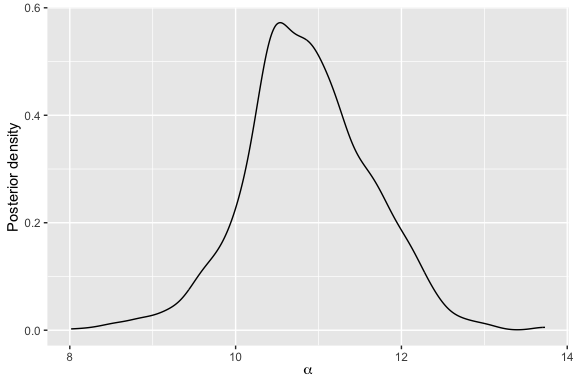
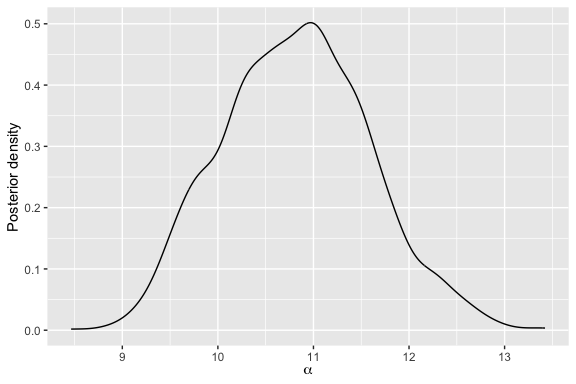
updated readme

diff --git a/README.md b/README.md
@@ -7,11 +7,10 @@
 [![R-CMD-check](https://github.com/ocbe-uio/BayesMallows/workflows/R-CMD-check/badge.svg)](https://github.com/ocbe-uio/BayesMallows/actions)
 [![Codecov test
 coverage](https://codecov.io/gh/ocbe-uio/BayesMallows/branch/master/graph/badge.svg)](https://app.codecov.io/gh/ocbe-uio/BayesMallows?branch=master)
-[![CodeFactor](https://www.codefactor.io/repository/github/ocbe-uio/bayesmallows/badge/develop)](https://www.codefactor.io/repository/github/ocbe-uio/bayesmallows/overview/develop)
+[![CodeFactor](https://www.codefactor.io/repository/github/ocbe-uio/bayesmallows/badge/master)](https://www.codefactor.io/repository/github/ocbe-uio/bayesmallows/overview/master)
 
 This package provides a general framework for analyzing rank and
-preference data based on the Bayesian Mallows model first described in
-Vitelli et al. ([2018](#ref-vitelli2018)).
+preference data based on the Bayesian Mallows model.
 
 ## Installation
 
@@ -34,13 +33,19 @@ To get started, load the package with
 
 ``` r
 library(BayesMallows)
+set.seed(123)
 ```
 
 The package comes with several example datasets. The simplest one
 contains 12 persons’ assessments of the weights of 20 potatoes, either
 by visual inspection (`potato_visual`) or by lifting the potatoes and
-comparing their relative weights by hand (`potato_weighing`). To fit a
-Bayesian Mallows model on the `potato_visual` dataset, we do
+comparing their relative weights by hand (`potato_weighing`).
+
+### Metropolis-Hastings Algorithm
+
+To fit a Bayesian Mallows model on the `potato_visual` dataset using the
+Metropolis-Hastings algorithm first described in Vitelli et al.
+([2018](#ref-vitelli2018)), we do
 
 ``` r
 potato_data <- setup_rank_data(potato_visual)
@@ -61,7 +66,8 @@ Setting the burnin to 500, we obtain a plot of the posterior
 distribution of the scale parameter with:
 
 ``` r
-plot(fit, burnin = 500)
+fit$burnin <- 500
+plot(fit)
 ```
 
 ![](man/figures/README-unnamed-chunk-6-1.png)<!-- -->
@@ -71,6 +77,34 @@ paper](https://journal.r-project.org/archive/2020/RJ-2020-026/index.html),
 and the function documentation. The use of parallel chains are described
 in [this
 vignette](https://ocbe-uio.github.io/BayesMallows/articles/parallel_chains.html).
+
+### Sequential Monte Carlo Algorithm
+
+The package also supports updating a Bayesian Mallows model using
+sequential Monte Carlo, with the algorithm described in Stein
+([2023](#ref-steinSequentialInferenceMallows2023)). For example, in
+order to update the model fitted above with the potato ranks based on
+comparing their relative weights by hand, we do
+
+``` r
+new_data <- setup_rank_data(rankings = potato_weighing)
+updated_fit <- update_mallows(model = fit, new_data = new_data)
+```
+
+We can go on to plot the posterior distribution of the scale parameter
+for this updated model.
+
+``` r
+plot(updated_fit)
+```
+
+![](man/figures/README-unnamed-chunk-8-1.png)<!-- -->
+
+Sequential Monte Carlo can typically be useful when new data arrives in
+batches, as it does not require the Metropolis-Hastings algorithm to be
+rerun. See [this
+vignette](https://ocbe-uio.github.io/BayesMallows/articles/SMC-Mallows.html)
+for more information.
 
 ## The Bayesian Mallows Model
 
